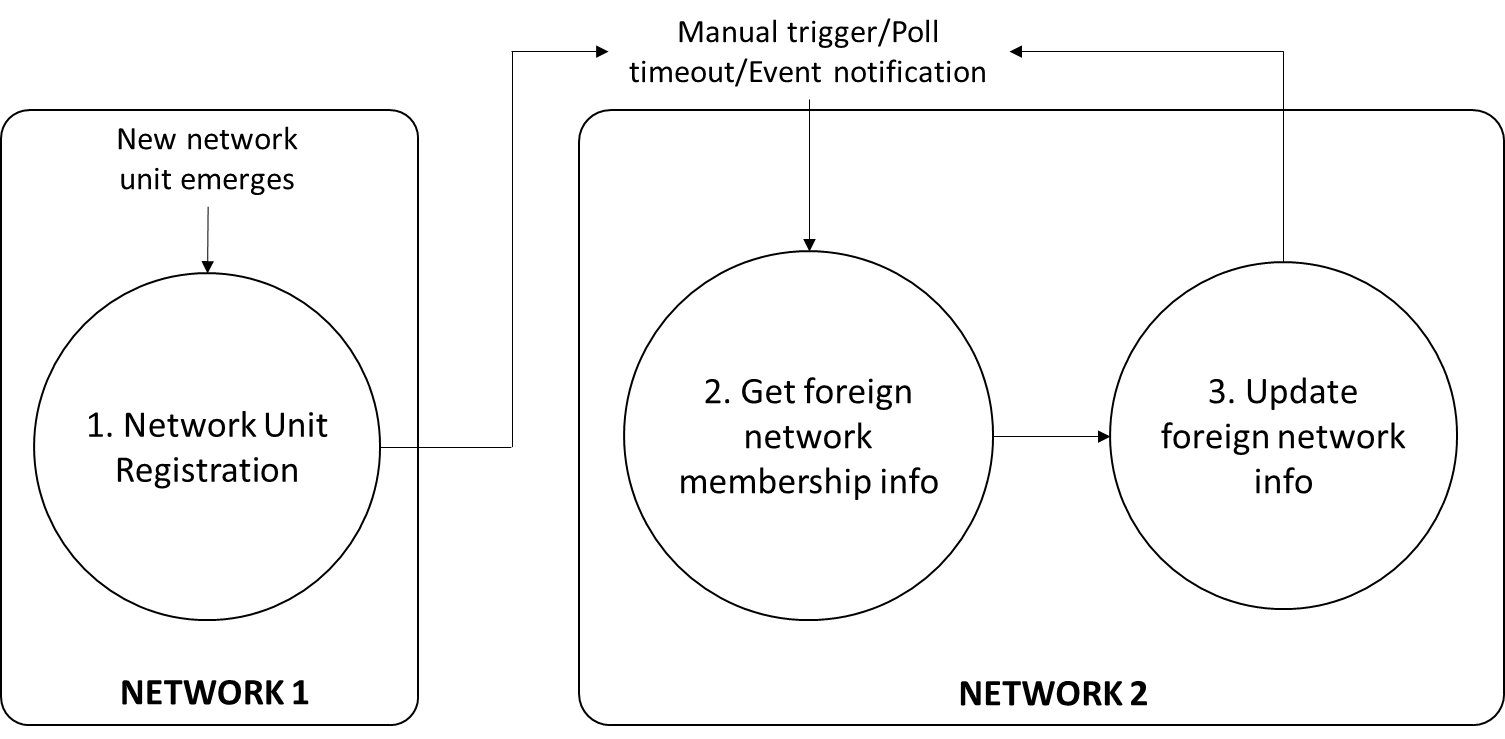
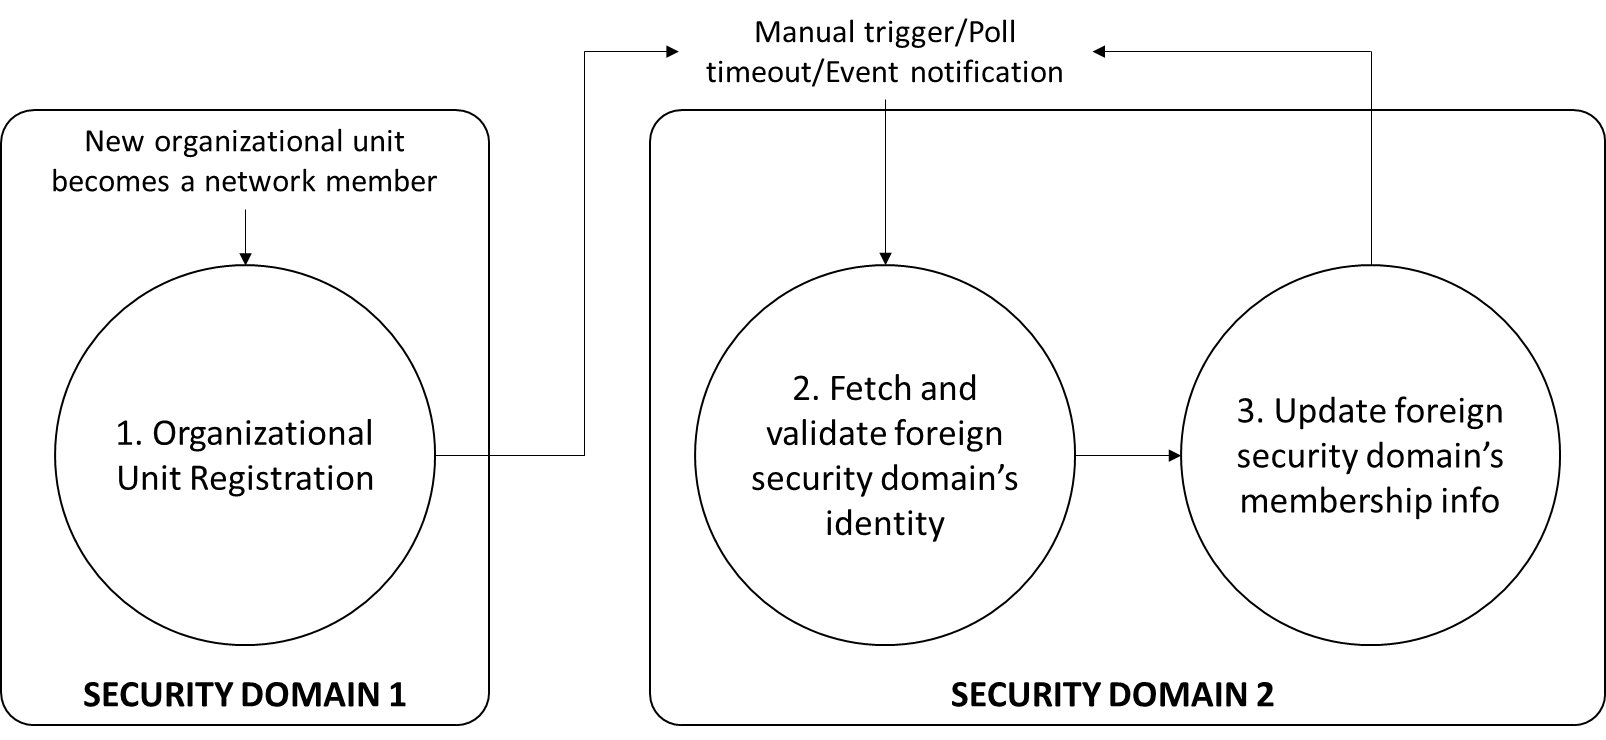
Updated Identity Sync Protocol RFCs and made minor code augmentations
Exposed a chaincode function to validate and extract confidential payloads in the Fabric Interop SDK.
Minor error handling logic change in Fabric driver.

diff --git a/sdks/fabric/interoperation-node-sdk/src/InteroperableHelper.ts b/sdks/fabric/interoperation-node-sdk/src/InteroperableHelper.ts
@@ -365,6 +365,18 @@ const verifyView = async (contract: Contract, base64ViewProto: string, address: 
 };
 
 /**
+ * Verifies a view's contents and extracts confidential payload by using chaincode function in interop chaincode. Verification is based on verification policy of the network, proof type and protocol type.
+ **/
+const parseAndValidateView = async (contract: Contract, address: string, base64ViewProto: string, b64ViewContent: string): Promise<Buffer> => {
+    try {
+        const viewPayload = await contract.evaluateTransaction("ParseAndValidateView", address, base64ViewProto, b64ViewContent);
+        return viewPayload;
+    } catch (e) {
+        throw new Error(`Unable to parse and validate view: ${e}`);
+    }
+};
+
+/**
  * Creates an address string based on a query object, networkid and remote url.
  **/
 const createAddress = (query: Query, networkID, remoteURL) => {
@@ -652,6 +664,7 @@ export {
     getKeyAndCertForRemoteRequestbyUserName,
     getPolicyCriteriaForAddress,
     verifyView,
+    parseAndValidateView,
     decryptRemoteChaincodeOutput,
     decryptRemoteProposalResponse,
     verifyRemoteProposalResponse,

diff --git a/core/drivers/fabric-driver/server/events.ts b/core/drivers/fabric-driver/server/events.ts
@@ -51,7 +51,9 @@ async function subscribeEventHelper(
                     const errorString: string = `${JSON.stringify(err)}`;
                     console.error(errorString);
                 }
-                ack_send.setMessage('Event subscription error: listener registration failed');
+                const errorString2 = JSON.stringify(error);
+                console.error(errorString2);
+                ack_send.setMessage(`Event subscription error: listener registration failed with error: ${errorString2}`);
                 ack_send.setStatus(ack_pb.Ack.STATUS.ERROR);
             } else {
                 ack_send.setMessage('Event subscription is successful!');

diff --git a/rfcs/protocols/identity/data-plane-identity-configuration.md b/rfcs/protocols/identity/data-plane-identity-configuration.md
@@ -3,31 +3,33 @@
 
  SPDX-License-Identifier: CC-BY-4.0
  -->
-# Data Plane Identity Configuration
+# Security Domain Membership Syncing
 
 - RFC: 02-012-appendix-b
 - Authors: Venkatraman Ramakrishna, Krishnasuri Narayanam, Bishakh Chandra Ghosh, Ermyas Abebe
 - Status: Proposed
-- Since: 24-Sep-2021
+- Since: 25-Aug-2022
 
 ## Overview
 
-For interoperation in the data plane, the identities in terms of data plane certificates/credentials of the foreign network units have to be configured. Along with that, the relay endopint information has to be configured.
+Data plane interoperation requires the syncing and configuration of a foreign security domain's [membership information](../../formats/network/membership.md) as well as the relay endpoints for that security domain (or network).
 
-The Network DID of a foreign network contains `relayEndpoints` and `DataplaneCredentials` verification method which are used to configure the realys and the data plane certidicates required for interoperation respectively.
+The Security Domain DID of a foreign security domain contains `relayEndpoints` and `DataplaneCredentials` verification methods, used to configure relay endpoints and certificates (part of membership info) respectively.
 
-## Protocol
+## Sync Protocol
 
-Considering two networks `NETWORK 1` and `NETWORK 2`, we specify a protocol where the IIN Agent of a participant unit, say `Org2` in `NETWORK 1`  is configuring the identity and relay for `NETWORK 2`.
+Consider two security domains governing ledgers `Ledger A` and Ledger B` respectively. The first has two IIN Agents `A1` and `A2` representing two organizational units that are members of its security domain. The second has agents `B1` and `B2`. The security domain governing `Ledger A` is trying to sync the latest identity and membership info of the security domain governing `Ledger B`. Without loss of generality, we can pick `A2` as the initiator of the cross-network identity plane protocol that results in `Ledger B`'s security domain membership and relay endpoints info getting recorded in `Ledger A`. The protocol is illustrated in the figure below. (_Note_: this represents the "happy path". We will add more diagrams subsequently illustrating failures and race conditions.)
 
-* IIN Agent of a network unit that intends to update the foreign network identity information in the data plane initiates a flow to collect signatures over the identity (Security Domain info) of the network units of `NETWORK 2`. These are obtained from `relayEndpoints` and `DataplaneCredentials` verification method of the Network DID, after the Network DID is validated (see [protocol](./network-identity-validation.md)).
-* IIN Agent of a network unit starts a flow to collect signatures over the identity (Security Domain info) and relay endpoint of `NETWORK 2`.
+<img src="../../resources/images/identity-sync.png" width=60%>
 
-The steps of this application level flow for updating data plane identity information are as follows:
-1. `IIN Agent Org2` constructs a _signature collection procedure_ request message consisting of the following: `{<Network-ID>, [<Network-Relay-Endpoint>],[<Network-Unit-DID> -> <Network-Unit-Security-Domain>]},<Signature>` (here, `<Signature>` is generated over the preceding structure.
-2. `IIN Agent Org2` triggers a _signature collection procedure_ by sending the request to every other IIN Agent in `NETWORK 1`. For example, on if `Org1` is another unit of `NETWORK 1`, it is sent to `IIN Agent Org1`. The requestees return signatures over the structure generated above to `IIN Agent Org2`.
-  * This can be orchestrated completely by the triggering agent, which sends requests and receives responses from every other IIN Agent.
-  * Alternatively, this could be a flow, where the trigger agent is simply the first node to generate a signature after which the request is handed off to another node. Eventually, when enough signatures are collected, a ledger update can be triggered (see Step 6 further below)
-3. (_Optional_) Requestee's IIN Agent (`IIN Agent Org1`) confirms the presence and validity of the Network DID of `NETWORK 2` on the IIN ledger and fetches the network DID document. This replicates what `IIN Agent Org2` did in Network Identity Validation [protocol](./network-identity-validation.md). This step is optional since the identity validation might already be done by the requestee and hence the validation information might be cached and used for providing the attestation.
-4. The requestee (`IIN Agent Org1`) validates the Security Domain info for `NETWORK 2` units, as well as the relay endpoints.
-5. When the requester unit - `IIN Agent Org2` obtains signatures from all IIN Agents in `NETWORK 1`, it updates the Security Domain info on the network ledger by submitting a transaction to the Interoperation module (a chaincode in the Fabric implementation, a Cordapp in the Corda implementation). The transaction payload consists of: `{<Network-ID>, [<Network-Relay-Endpoint>],[<Network-Unit-DID> -> <Network-Unit-Security-Domain>]},[<Signature-Org1>,<Signature-Org2>]}`. The signatures are validated by multiple peers and committed to the ledger after passing through a consensus protocol.
+The first phase in the above diagram, involving [registration](./identity-syncing.md), [discovery](../discovery/discovery.md), and [validation])(./network-identity-validation.md) are covered in other specifications. In this draft, we only specify the bilateral protocol occurring between sets of IIN Agents representing two independent security domains' members.
+
+The communication among IIN Agents of the security domain governing `Ledger A` to collect attestations can occur in one of two ways:
+  * It can be orchestrated completely by the triggering agent (in this case `A2`), which sends requests and receives responses from every other local IIN Agent.
+  * Alternatively, it could be a flow, where the trigger agent is simply the first node to produce an attestation after which the request is passed to another agent. This proces concludes when enough attestations are collected.
+
+(We recommend the first approach in Weaver for simplicity of implementation.)
+
+The validation procedures marked in the figure above may include an agent confirming the presence and validity of its security domain's DID record in an IIN. But in case two networks are attempting to interoperate without relying on DID infrastructure (IINs and trust anchors), these checks can be skipped. Even if DID infrastructure is present and relied upon, these checks need not be done as part of the protocol; the result of a past check can be cached and retrieved as needed (assuming freshness of cached records is ascertained).
+
+Finally, a foreign security domain's membership info is recorded via the [interoperation module](../../models/infrastructure/interoperation-modules.md) deployed in the network (a chaincode in Fabric, a CorDapp in Corda, etc.). The logic in this module must validate and authenticate the various signatures in the transaction payload before committing to the ledger via the network's native consensus protocol.

diff --git a/rfcs/protocols/identity/identity-syncing.md b/rfcs/protocols/identity/identity-syncing.md
@@ -3,18 +3,18 @@
 
  SPDX-License-Identifier: CC-BY-4.0
  -->
-# Protocols for Decentralized Network-Identity Configuration, Exchannge and Validation, for Interoperation
+# Security Domain Identity and Membership Exchanges
 
 - RFC: 02-012
 - Authors: Venkatraman Ramakrishna, Krishnasuri Narayanam, Bishakh Chandra Ghosh, Ermyas Abebe
 - Status: Proposed
 - Supersedes: 02-011
-- Since: 24-Sep-2021
+- Since: 25-Aug-2022
 
 
 ## Summary
 
-This is an identity plane protocol to exchange identity information between two interoperating blockchain networks. This establishes a basis (or trust anchor) for proof-based data sharing. For background and component information, start [here](../../models/identity/network-identity-management.md).
+This is an identity plane protocol to exchange identity information between two interoperating blockchain networks. This establishes a trust basis for proof-based data sharing. For background and component information, start [here](../../models/identity/network-identity-management.md).
 
 The entire Network Identity Discovery and Management protocol involves the following protocols for different steps:
 
@@ -110,7 +110,7 @@ A DID registration request, that is the DID create method of the IIN registry, m
 
 **Step 5. Trust anchors issue identity VC to participant DID.**
 
-A DID and a DID document do not inherently carry any personal data such as physical identity / real worl identity ([binding did to physical identity](https://w3c.github.io/did-core/#binding-to-physical-identity)). Therefore, to map a participant's did to its physical identity, some trust anchor must issue VCs attesting the real world physical identity of the participant , to the participant's DID. The participant itself becomes the holder of those identity VCs and can present it to others to prove its physical identity.
+A DID and a DID document do not inherently carry any personal data such as physical identity / real world identity ([binding did to physical identity](https://w3c.github.io/did-core/#binding-to-physical-identity)). Therefore, to map a participant's did to its physical identity, some trust anchor must issue VCs attesting the real world physical identity of the participant , to the participant's DID. The participant itself becomes the holder of those identity VCs and can present it to others to prove its physical identity.
 
 > Step 5 has flexibility in terms of how many trust anchors and which trust anchors issue identity VC to a particular participant. These identity VCs might be used for validating network identity by other network participants.  See *Network Identity Validation* step.
 
@@ -266,16 +266,17 @@ The first step towards interoperation between two blockchain networks is discove
 
 Given the DID of a foreign network in the format `did:<iin_name>:<network_name>` (example `did:iinindy:tradelens`), the foreign network can be discovered by standard DID resolution. The IIN agent of a participant of a local network contacts the DID registry (example: `iinindy`) and resolves the DID to download the Network DID document.
 
-Find the network discovery protocol specifications [here](../discovery/readme.md). 
+See the [network discovery protocol specifications](../discovery/discovery.md) for more details. 
 
 
-## Network Identity Validation
+## Security Domain Identity Validation
 
-After discovery of the network and fetching the Network DID document, the authenticity of it has to be verified by validating the identity of the network. This is carried out through the Network Identity Validation protocol described [here](./network-identity-validation.md).
+After a network has been discovered, and its Security Domain DID document has been fetched, the authenticity of that DID must be verified. See the [Security Domain Identity Validation protocol](./network-identity-validation.md) for details of how the network's identity is validated.
+
 
 ## Data Plane Identity Configuration
 
-After foreign network identities are validated, it has to be configured in the data plane for interoperation. A single participant unit cannot update identity information in the network's ledger. This needs agreement among all the participanting units. This agreement is ensured through collection of signatures through an application level flow as discussed in detail [here](./data-plane-identity-configuration.md).
+After a foreign network's (or security domain's) identity is validated, its membership information must be configured in the network's ledger for interoperation protocols to work in the data plane. A single organizational unit (or network member) cannot unilaterally update this membership information; instead, members must agree on that information before it is deemed acceptable for recording on the ledger. See the [Membership Syncing protocol specifications](./data-plane-identity-configuration.md) for details on how this is achieved by the IIN Agents representing the members self-orchestrating a flow to collect attestations.
 
 ## Updating Network DID with changing Network Structure
 
@@ -304,6 +305,13 @@ The IIN registry authenticates a Network DID updation request based on two condi
 (1) The signatures must  satisfy the `updatePolicy` in the `BlockchainNetworkMultiSig` verification method of the existing Network DID document.
 
 
-## Dataplane credentials update with changes in identity plane
+## Data Plane credentials update with changes in identity plane
 
-The identity exchange and validation has to be done whenever there is a change in the identity of any network. Thus, the identity exchange protocol steps explained in this document must be triggered within a network whenever the identities of the participant units of any network it wishes to interoperate with change. This is further explained [here](./identity-change-updates.md).
+The security domain validation and membership syncing protocols must be re-run every time there is a change in a security domain's identity (DID document) or in its membership configuration. The flow diagram below illustrates the complete process from the time a change occurs in one network up to the point where its updated identity and membership info is reflected in another network's ledger as a prerequisite for data plane interoperation. Each step in this diagram represents a separate protocol: (1) is described in this document above, (2) is described in the [security domain identity validation specification](./network-identity-validation.md), and (3) in the [membership syncing specification](./data-plane-identity-configuration.md).
+
+<img src="../../resources/images/protocol-identity-overview.jpg" width=60%>
+
+The trigger for Step 2 can be any of the following:
+* Manual trigger applied by a network administrator
+* Timeout after a poll interval: the network unit in `SECURITY DOMAIN 1` polls for updates to `SECURITY DOMAIN 2`
+* Event notification: a network unit in `SECURITY DOMAIN 1` receives an event notifying it about a change in `SECURITY DOMAIN 2`
